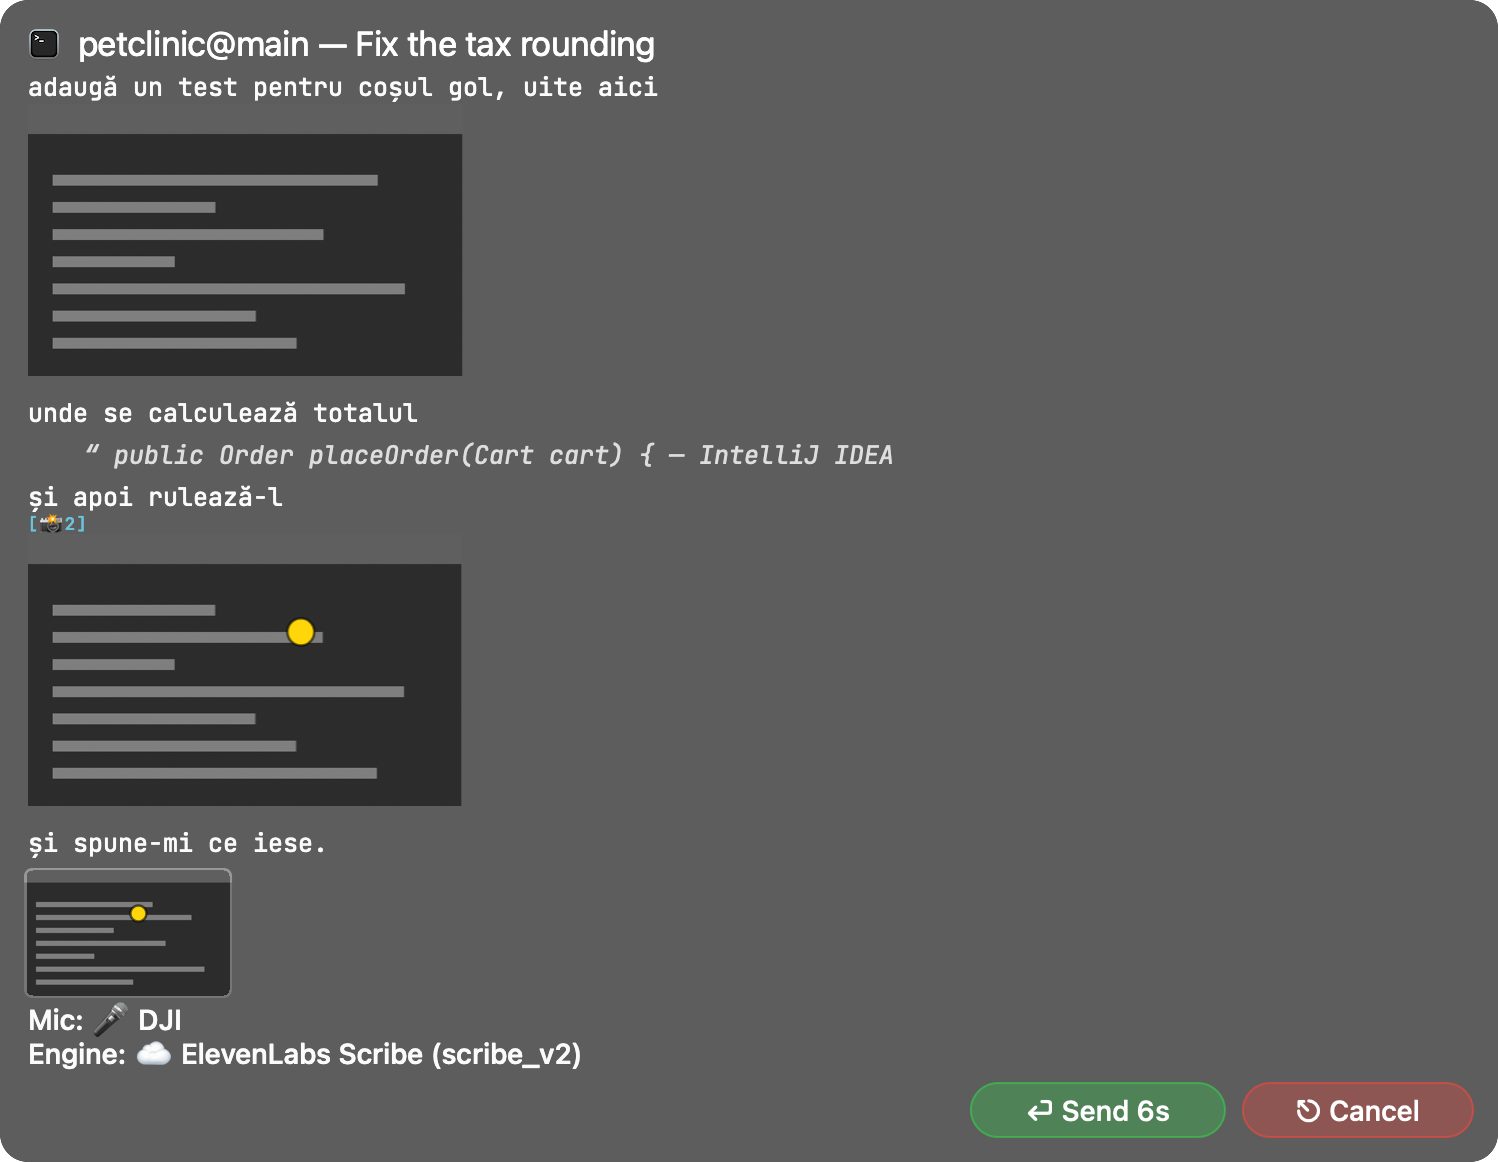
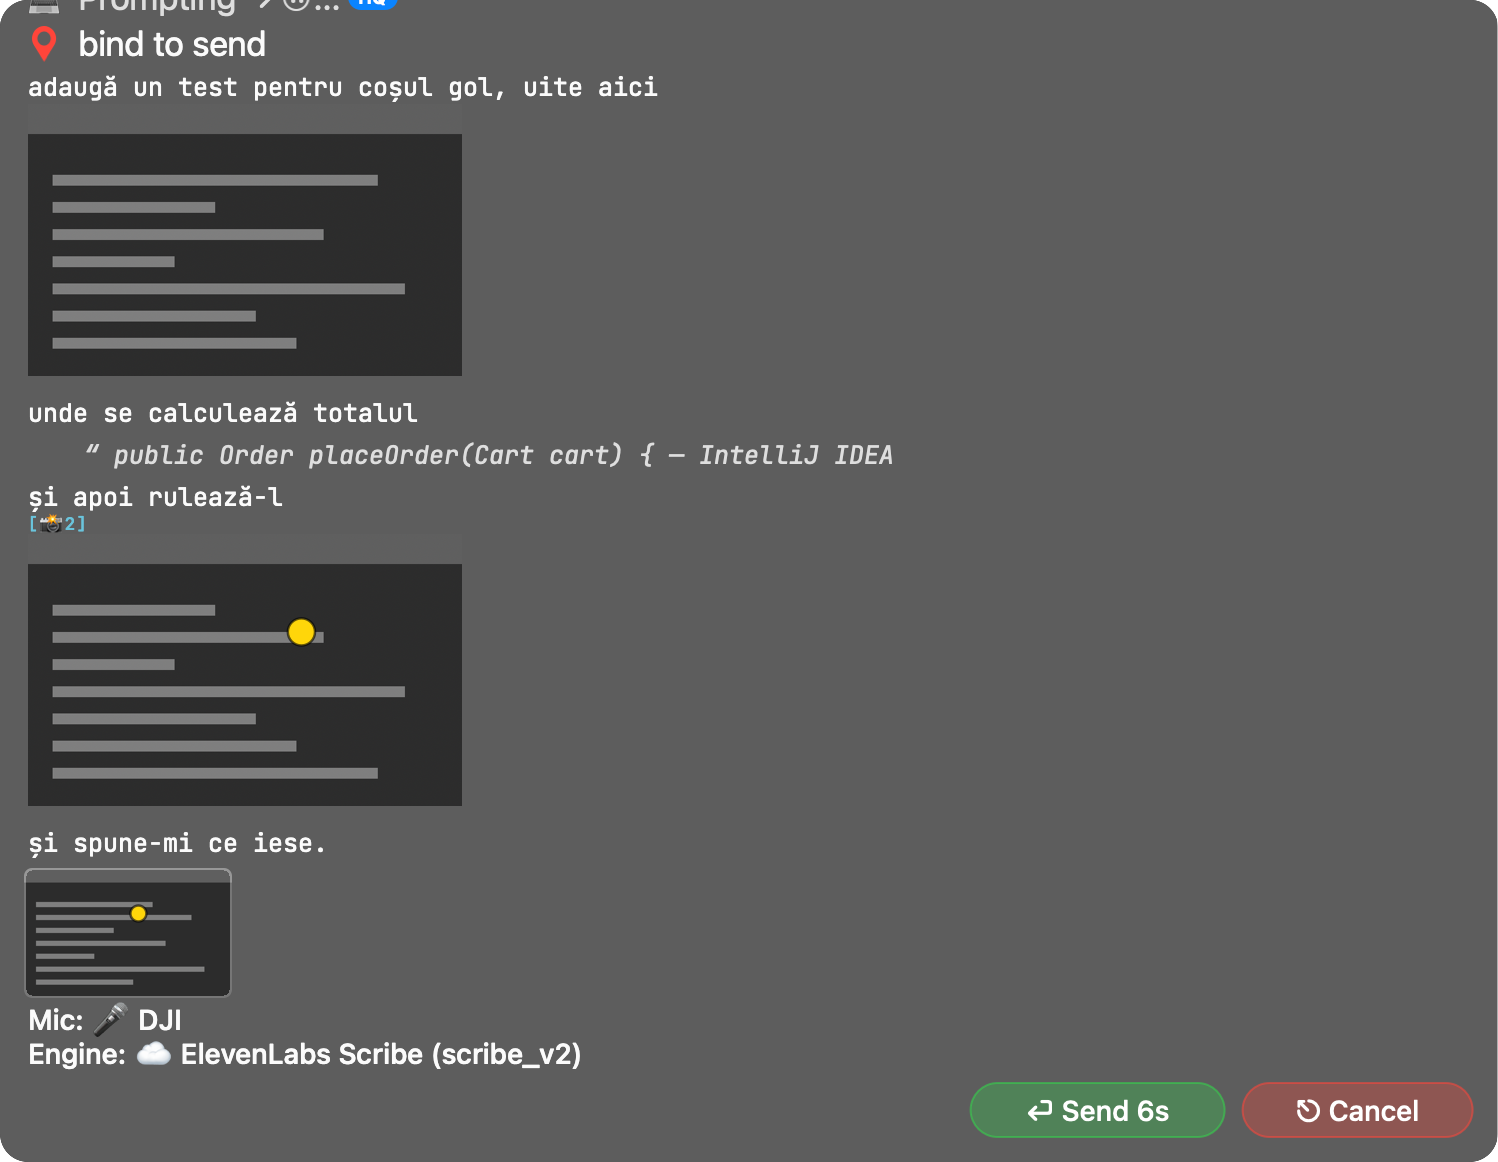
🔴 REC in all four corners, 50% larger, and a click on it stops the film; the strip says 4.2s / 21 frames

Changed region(s): [[0.0, 0.0, 0.4606, 0.062]]

diff --git a/Sources/WalkieTalkie/ScreenFilm.swift b/Sources/WalkieTalkie/ScreenFilm.swift
@@ -356,33 +356,69 @@ final class ScreenFilm {
 /// **The dot and `REC` 20 % larger** (2026-10-16, Victor: *"the red dot next to
 /// the record in the top corner and the text should be 20% larger"*): 42 → 50 pt
 /// dot, 40 → 48 pt text.
+///
+/// **50 % larger again, in all four corners, and a click on any of them stops
+/// the recording** (2026-10-20, Victor: *"the rec label … should be 50% larger
+/// … displayed in all four corners. Any clicking the red text or red bubble
+/// should stop the recording. I always forget how to stop it … they shouldn't
+/// show up in the frames, but they should stay on screen so I can hover them
+/// and click them"*): 50 → 75 pt dot, 48 → 72 pt text. Each badge is its own
+/// small panel that takes the left click (`RecBadgeView`) — the border stays
+/// click-through, it covers the whole display — and every one keeps
+/// `sharingType = .none`, so none is in a frame. Under the pointer the dot stops
+/// blinking and the pointer becomes a hand, so the thing he aims at is there.
 enum FilmBorder {
     private static var panel: NSPanel?
+    private static var badges: [NSPanel] = []
+    /// What a click on a badge does — `AppDelegate` stops the film. Main thread.
+    static var onClick: (() -> Void)?
     static let width: CGFloat = 5
-    static let dot: CGFloat = 50
+    static let dot: CGFloat = 75
+    static let textSize: CGFloat = 72
+    /// Between the dot and `REC`, and from the screen's edge (inside the border).
+    private static let gap: CGFloat = 18
+    private static let margin: CGFloat = width + 16
     /// The dot's whole cycle, half lit, half dark.
     static let slowBlink: CFTimeInterval = 2.0
-    private static let ink = NSColor.systemRed
+    fileprivate static let ink = NSColor.systemRed
 
     static func show(on screen: NSScreen) {
         guard Thread.isMainThread else { DispatchQueue.main.async { show(on: screen) }; return }
         hide()
-        let p = NSPanel(contentRect: screen.frame, styleMask: [.borderless, .nonactivatingPanel],
+        let p = overlayPanel(frame: screen.frame)
+        p.ignoresMouseEvents = true
+        p.contentView = borderView(size: screen.frame.size)
+        p.setFrame(screen.frame, display: true)
+        p.orderFrontRegardless()
+        panel = p
+
+        let size = badgeSize()
+        let menuBar = screen.frame.maxY - screen.visibleFrame.maxY
+        for origin in badgeOrigins(size: screen.frame.size, menuBar: menuBar) {
+            let frame = NSRect(origin: NSPoint(x: screen.frame.minX + origin.x,
+                                               y: screen.frame.minY + origin.y), size: size)
+            let b = overlayPanel(frame: frame)
+            b.ignoresMouseEvents = false
+            b.becomesKeyOnlyIfNeeded = true
+            b.contentView = RecBadgeView(frame: NSRect(origin: .zero, size: size),
+                                         scale: screen.backingScaleFactor)
+            b.setFrame(frame, display: true)
+            b.orderFrontRegardless()
+            badges.append(b)
+        }
+    }
+
+    private static func overlayPanel(frame: NSRect) -> NSPanel {
+        let p = NSPanel(contentRect: frame, styleMask: [.borderless, .nonactivatingPanel],
                         backing: .buffered, defer: false)
         p.isOpaque = false
         p.backgroundColor = .clear
         p.hasShadow = false
-        p.ignoresMouseEvents = true
         p.level = NSWindow.Level(rawValue: Int(CGWindowLevelForKey(.maximumWindow)))
         p.collectionBehavior = [.canJoinAllSpaces, .fullScreenAuxiliary, .stationary, .ignoresCycle]
         p.sharingType = .none
         p.hidesOnDeactivate = false
-        p.contentView = content(size: screen.frame.size,
-                                menuBar: screen.frame.maxY - screen.visibleFrame.maxY,
-                                scale: screen.backingScaleFactor)
-        p.setFrame(screen.frame, display: true)
-        p.orderFrontRegardless()
-        panel = p
+        return p
     }
 
     /// The border follows the film to another display — but only while it is
@@ -392,9 +428,21 @@ enum FilmBorder {
         show(on: screen)
     }
 
-    /// The drawing, also rendered by `FilmBorderTests` (`FILM_BORDER_PNG=<dir>`)
-    /// — the panel is out of every screenshot.
+    /// The whole drawing — border and the four badges — for `FilmBorderTests`
+    /// (`FILM_BORDER_PNG=<dir>`); the panels are out of every screenshot.
     static func content(size: CGSize, menuBar: CGFloat, scale: CGFloat) -> NSView {
+        let v = borderView(size: size)
+        for origin in badgeOrigins(size: size, menuBar: menuBar) {
+            // Layers, not `RecBadgeView`s: a subview's layer joins its parent's
+            // only once the view is in a window, and this one never is.
+            let badge = badgeLayer(scale: scale)
+            badge.frame.origin = origin
+            v.layer?.addSublayer(badge)
+        }
+        return v
+    }
+
+    private static func borderView(size: CGSize) -> NSView {
         let v = NSView(frame: NSRect(origin: .zero, size: size))
         v.wantsLayer = true
         let border = CALayer()
@@ -403,33 +451,60 @@ enum FilmBorder {
         border.borderColor = ink.cgColor
         border.add(blink(values: [1.0, 0.5], duration: 1.0), forKey: "blink")
         v.layer?.addSublayer(border)
+        return v
+    }
 
-        let font = NSFont.monospacedSystemFont(ofSize: 48, weight: .heavy)
-        let text = NSAttributedString(string: "REC", attributes: [.font: font, .foregroundColor: ink])
+    static func recText() -> NSAttributedString {
+        NSAttributedString(string: "REC", attributes: [
+            .font: NSFont.monospacedSystemFont(ofSize: textSize, weight: .heavy),
+            .foregroundColor: ink,
+        ])
+    }
+
+    /// `● REC`, with room for the halo.
+    static func badgeSize() -> CGSize {
+        let text = recText().size()
+        return CGSize(width: dot + gap + ceil(text.width), height: max(dot, ceil(text.height)))
+    }
+
+    /// One `● REC`: the dot (the first sublayer) blinking slowly, `REC` steady
+    /// beside it, a dark halo so the red reads on a white page as well as on a
+    /// terminal.
+    static func badgeLayer(scale: CGFloat) -> CALayer {
+        let size = badgeSize()
+        let badge = CALayer()
+        badge.frame = CGRect(origin: .zero, size: size)
+        let text = recText()
         let textSize = text.size()
-        let gap: CGFloat = 12
-        let margin = width + 16
-        let top = size.height - menuBar - margin
-        let textX = size.width - margin - ceil(textSize.width)
         let rec = CATextLayer()
         rec.string = text
         rec.contentsScale = scale
-        rec.frame = CGRect(x: textX, y: top - dot + (dot - ceil(textSize.height)) / 2,
+        rec.frame = CGRect(x: size.width - ceil(textSize.width),
+                           y: (size.height - ceil(textSize.height)) / 2,
                            width: ceil(textSize.width), height: ceil(textSize.height))
         let d = CALayer()
-        d.frame = CGRect(x: textX - gap - dot, y: top - dot, width: dot, height: dot)
+        d.frame = CGRect(x: 0, y: (size.height - dot) / 2, width: dot, height: dot)
         d.cornerRadius = dot / 2
         d.backgroundColor = ink.cgColor
         d.add(blink(values: [1.0, 0.0], duration: slowBlink), forKey: "blink")
-        // A dark halo so the red reads on a white page as well as on a terminal.
         for layer in [d, rec] {
             layer.shadowColor = NSColor.black.cgColor
             layer.shadowOpacity = 0.6
             layer.shadowRadius = 3
             layer.shadowOffset = .zero
-            v.layer?.addSublayer(layer)
+            badge.addSublayer(layer)
         }
-        return v
+        return badge
+    }
+
+    /// Bottom-left origins of the four badges, in the screen's own points: the
+    /// top two under the menu bar, which would otherwise draw over them.
+    static func badgeOrigins(size: CGSize, menuBar: CGFloat) -> [CGPoint] {
+        let b = badgeSize()
+        let left = margin, right = size.width - margin - b.width
+        let bottom = margin, top = size.height - menuBar - margin - b.height
+        return [CGPoint(x: left, y: top), CGPoint(x: right, y: top),
+                CGPoint(x: left, y: bottom), CGPoint(x: right, y: bottom)]
     }
 
     /// A hard step, no ease: the first value for the first half, the second after.
@@ -452,5 +527,47 @@ enum FilmBorder {
         guard Thread.isMainThread else { DispatchQueue.main.async { hide() }; return }
         panel?.orderOut(nil)
         panel = nil
+        badges.forEach { $0.orderOut(nil) }
+        badges = []
+    }
+}
+
+/// A badge's panel: `FilmBorder.badgeLayer`, and a left click anywhere on it
+/// is `FilmBorder.onClick`.
+final class RecBadgeView: NSView {
+    private let badge: CALayer
+    private var dotLayer: CALayer? { badge.sublayers?.first }
+
+    init(frame: NSRect, scale: CGFloat) {
+        badge = FilmBorder.badgeLayer(scale: scale)
+        super.init(frame: frame)
+        wantsLayer = true
+        layer?.addSublayer(badge)
+        addTrackingArea(NSTrackingArea(rect: .zero,
+                                       options: [.mouseEnteredAndExited, .cursorUpdate,
+                                                 .activeAlways, .inVisibleRect],
+                                       owner: self))
+    }
+
+    required init?(coder: NSCoder) { fatalError("init(coder:) is not used") }
+
+    override func acceptsFirstMouse(for event: NSEvent?) -> Bool { true }
+
+    override func mouseDown(with event: NSEvent) {
+        Log.info("🎬 ● REC clicked — stopping the recording")
+        FilmBorder.onClick?()
+    }
+
+    override func cursorUpdate(with event: NSEvent) { NSCursor.pointingHand.set() }
+
+    override func mouseEntered(with event: NSEvent) {
+        NSCursor.pointingHand.set()
+        dotLayer?.removeAnimation(forKey: "blink")
+    }
+
+    override func mouseExited(with event: NSEvent) {
+        NSCursor.arrow.set()
+        dotLayer?.add(FilmBorder.blink(values: [1.0, 0.0], duration: FilmBorder.slowBlink),
+                      forKey: "blink")
     }
 }

diff --git a/Sources/WalkieTalkie/RelayWindow.swift b/Sources/WalkieTalkie/RelayWindow.swift
@@ -439,7 +439,7 @@ private let heardLabel = NSTextField(labelWithString: "")
     /// it … at the end, just like a picture, but with a red dot visible and a
     /// length displayed on top of it"*): each one's poster frame and its length,
     /// drawn after the screenshots in the strip.
-    private var promptFilms: [(poster: String, seconds: TimeInterval)] = []
+    private var promptFilms: [(poster: String, seconds: TimeInterval, frames: Int)] = []
     /// Shown above the words rather than folded into them — see `layoutContent`.
     private var promptSelection: String?
     /// **Which microphone heard it and which engine wrote it** (2026-10-06,
@@ -2992,11 +2992,11 @@ private let heardLabel = NSTextField(labelWithString: "")
     /// the paths never agreed and every inlined picture came back in the strip.
     /// The recordings come last, newest last, as they were made after the
     /// screenshots they ride with or at least after the context shot.
-    private var stripShots: [(path: String, stamp: String, film: TimeInterval?, number: Int?)] {
+    private var stripShots: [(path: String, stamp: String, film: (seconds: TimeInterval, frames: Int)?, number: Int?)] {
         let drawn = Set(inlineShotNumbers(in: sentPrompt ?? ""))
         return promptShots.filter { ScreenCapture.number(of: $0.path).map { !drawn.contains($0) } ?? true }
             .map { (path: $0.path, stamp: $0.stamp, film: nil, number: ScreenCapture.number(of: $0.path)) }
-            + promptFilms.map { (path: $0.poster, stamp: "", film: $0.seconds, number: nil) }
+            + promptFilms.map { (path: $0.poster, stamp: "", film: (seconds: $0.seconds, frames: $0.frames), number: nil) }
     }
 
     /// `[📸N…]`, `[selected: "…"…]`, `[copied: "…"…]`, `[chrome-selection-N: …]`,
@@ -3224,11 +3224,11 @@ private let heardLabel = NSTextField(labelWithString: "")
             view.layer?.masksToBounds = true
             view.layer?.borderWidth = 1
             view.layer?.borderColor = NSColor.secondaryLabelColor.withAlphaComponent(0.35).cgColor
-            if let seconds = shot.film {
+            if let film = shot.film {
                 // A film reads as a film by its red rim and the ● + length on
                 // it, where a screenshot carries its m:ss.
                 view.layer?.borderColor = NSColor.systemRed.cgColor
-                let badge = Self.filmBadge(seconds)
+                let badge = Self.filmBadge(film.seconds, frames: film.frames)
                 badge.frame.origin = NSPoint(x: Self.stampInset, y: Self.stampInset)
                 view.addSubview(badge)
             } else if let badge = Self.stampBadge(shot.stamp) {
@@ -3293,11 +3293,20 @@ private let heardLabel = NSTextField(labelWithString: "")
         return pill
     }
 
-    /// The film's pill: a red ● and its length (`3.2s`), on the same dark
-    /// ground as a screenshot's m:ss so the two read as one family.
-    private static func filmBadge(_ seconds: TimeInterval) -> NSView {
-        let label = NSTextField(labelWithString: String(format: "%.1fs", seconds))
-        label.font = NSFont.monospacedDigitSystemFont(ofSize: 10, weight: .semibold)
+    /// The film's pill: a red ● and its length over its frame count
+    /// (`3.2s / 16 frames`), on the same dark ground as a screenshot's m:ss so
+    /// the two read as one family. The count joined the length on 2026-10-20
+    /// (Victor: *"the video should display the length slash the number of
+    /// frames … and then say frames"*).
+    static func filmBadgeText(_ seconds: TimeInterval, frames: Int) -> String {
+        String(format: "%.1fs / %d frames", seconds, frames)
+    }
+
+    private static func filmBadge(_ seconds: TimeInterval, frames: Int) -> NSView {
+        let label = NSTextField(labelWithString: filmBadgeText(seconds, frames: frames))
+        // 9 pt, a point under the m:ss: the longer text still fits a 65 pt-high
+        // poster of the Retina display (100 pt wide) with the dot beside it.
+        label.font = NSFont.monospacedDigitSystemFont(ofSize: 9, weight: .semibold)
         label.textColor = .white
         label.sizeToFit()
         let dot: CGFloat = 7
@@ -5040,7 +5049,7 @@ private let heardLabel = NSTextField(labelWithString: "")
                         inlineShots: [Int: String] = [:],
                         inlineFrames: [Int: (path: String, pixels: CGSize)] = [:],
                         pointers: [Int: CGPoint] = [:],
-                        films: [(poster: String, seconds: TimeInterval)] = [],
+                        films: [(poster: String, seconds: TimeInterval, frames: Int)] = [],
                         buttons: Bool = true, spawning: Bool = false) -> Bool {
         let trimmed = text.trimmingCharacters(in: .whitespacesAndNewlines)
         let quoted = selection?.trimmingCharacters(in: .whitespacesAndNewlines).nilIfEmpty

diff --git a/Tests/WalkieTalkieTests/FilmBorderTests.swift b/Tests/WalkieTalkieTests/FilmBorderTests.swift
@@ -4,7 +4,7 @@ import XCTest
 
 final class FilmBorderTests: XCTestCase {
     /// `FILM_BORDER_PNG=<dir> swift test --filter FilmBorderTests` — the recording
-    /// badge's top-right corner, dot lit, over a light and a dark page.
+    /// badges in the four corners, dots lit, over a light and a dark page.
     func testRenderForReview() throws {
         guard let dir = ProcessInfo.processInfo.environment["FILM_BORDER_PNG"] else { return }
         let size = CGSize(width: 1728, height: 1117), scale: CGFloat = 2
@@ -17,10 +17,8 @@ final class FilmBorderTests: XCTestCase {
             ctx.fill(CGRect(origin: .zero, size: CGSize(width: size.width * scale, height: size.height * scale)))
             ctx.scaleBy(x: scale, y: scale)
             view.layer!.render(in: ctx)
-            let full = ctx.makeImage()!
-            // The top-right 520 × 200 pt.
-            let crop = full.cropping(to: CGRect(x: (size.width - 520) * scale, y: 0, width: 520 * scale, height: 200 * scale))!
-            try NSBitmapImageRep(cgImage: crop).representation(using: .png, properties: [:])!
+            // The whole display: a badge in each of the four corners.
+            try NSBitmapImageRep(cgImage: ctx.makeImage()!).representation(using: .png, properties: [:])!
                 .write(to: URL(fileURLWithPath: dir).appendingPathComponent("film-badge-\(name).png"))
         }
     }

diff --git a/Sources/WalkieTalkie/AppDelegate.swift b/Sources/WalkieTalkie/AppDelegate.swift
@@ -7220,6 +7220,12 @@ final class AppDelegate: NSObject, NSApplicationDelegate {
             overlay.flash(Self.plainAttachesNothing, duration: 3)
             return
         }
+        // A click on any of the four `● REC` badges is the stop (2026-10-20) —
+        // the gesture is the one he forgets, the badge is the one he sees.
+        FilmBorder.onClick = { [weak self] in
+            guard let self, self.film != nil else { return }
+            self.toggleFilm()
+        }
         guard let started = ScreenFilm.start() else {
             overlay.flash("⚠ could not start the recording", duration: 5)
             return
@@ -11955,7 +11961,7 @@ final class AppDelegate: NSObject, NSApplicationDelegate {
                                            inlineFrames: inlineFrames,
                                            pointers: pointers,
                                            films: message.films.compactMap { f in
-                                               f.poster.map { (poster: $0.path, seconds: f.duration) }
+                                               f.poster.map { (poster: $0.path, seconds: f.duration, frames: f.frames.count) }
                                            },
                                            buttons: !self.autosend,
                                            // Consumed above, so the panel is told

diff --git a/Sources/WalkieTalkie/OverlayStates.swift b/Sources/WalkieTalkie/OverlayStates.swift
@@ -559,7 +559,7 @@ enum OverlayStates {
                 let frames = mockShots(3)
                 o.showSentPrompt(transcript, hold: 6, shots: Array(frames.prefix(2)),
                                  stamps: ["", "0:38"], words: transcript, heard: heard,
-                                 films: [(poster: frames[2], seconds: 4.2)])
+                                 films: [(poster: frames[2], seconds: 4.2, frames: 21)])
             },
 
             Shot(slug: "prompt-inline", group: "The held prompt", title: "The prompt, with its pictures where they were taken",

diff --git a/docs/overlay-states.html b/docs/overlay-states.html
@@ -815,7 +815,7 @@
       </section>
     </div>
 <footer>
-  Generated from <code>OverlayStates.swift</code> · repo at 84ce0a5 · 19 Oct 2026 · built 20 Oct 2026, 00:09
+  Generated from <code>OverlayStates.swift</code> · repo at f5bb0d3 · 20 Oct 2026 · built 20 Oct 2026, 06:58
 </footer>
 <button class="toggle" onclick="document.body.classList.toggle('light')">Backdrop: dark / light</button>
 </body>

diff --git a/.claude/rules/overlay-chip.md b/.claude/rules/overlay-chip.md
@@ -488,11 +488,15 @@ yields to `--label`).
   with a red dot visible and a length displayed on top of it"*). `ScreenFilm.stop` writes
   `poster.jpg` (the middle frame, 800 px, `FilmSheet.poster`); `AppDelegate` hands `films: [(poster,
   seconds)]` to `showSentPrompt`; `stripShots` appends them after the screenshots. Red 1 pt rim and a
-  `● 4.2s` pill (`filmBadge`) where a screenshot carries its m:ss. Shot `prompt-film`. While
-  recording, `FilmBorder` draws one camcorder `● REC` in the top-right corner (2026-10-13 — four
-  corner dots until then): a 42 pt dot blinking slowly (1 s lit, 1 s dark), `REC` steady, both out
-  of the frames (`sharingType = .none`; a 2026-10-08 film
-  checked: no red in any frame).
+  `● 4.2s / 21 frames` pill (`filmBadge`, 9 pt; the frame count since 2026-10-20) where a screenshot
+  carries its m:ss. Shot `prompt-film`. While recording, `FilmBorder` draws a camcorder `● REC` **in
+  all four corners** (2026-10-20; top-right only from 10-13): a 75 pt dot blinking slowly (1 s lit,
+  1 s dark), `REC` 72 pt steady, all out of the frames (`sharingType = .none`; a 2026-10-08 film
+  checked: no red in any frame). **A left click on any badge stops the recording** (2026-10-20,
+  Victor: *"I always forget how to stop it"*): each badge is its own small non-activating panel
+  (`RecBadgeView`, `FilmBorder.onClick` → `AppDelegate.toggleFilm`), the border stays click-through;
+  under the pointer the dot stops blinking and the cursor is a hand. `FILM_BORDER_PNG=<dir> swift
+  test --filter FilmBorderTests` renders the four.
 - **Dictating is not a panel state.** The panel is for what the model heard while Cancel can still
   stop it; the shot receipt is a number in the recording row, not a `flash(_:)`, because a flash
   takes the chip over for 1.5 s and the count has to keep climbing.
